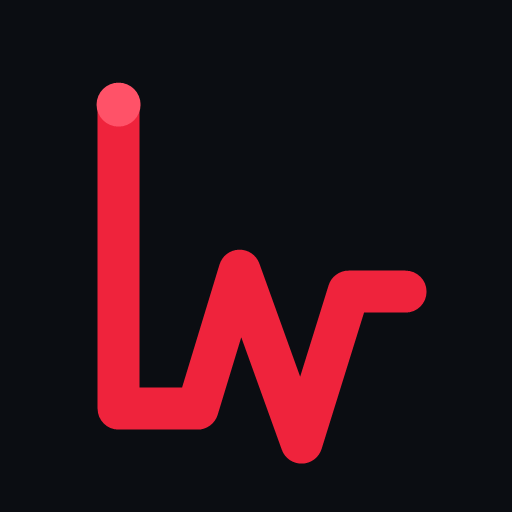
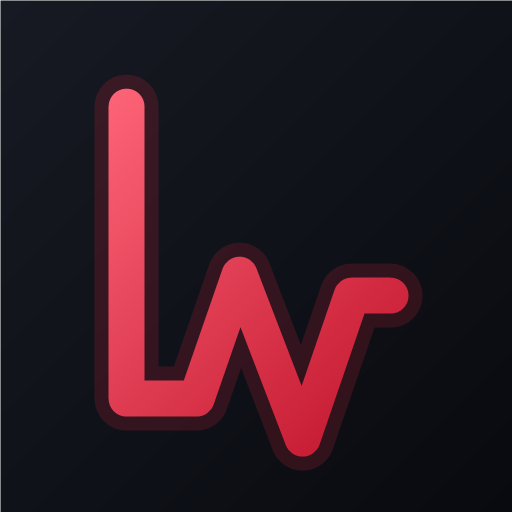
Add files via upload

Changed region(s): [[0.1562, 0.125, 0.8438, 0.9375], [0.0, 0.0, 0.0312, 0.0312]]

diff --git a/index.html b/index.html
@@ -20,7 +20,7 @@
   <div class="app-shell">
     <aside class="sidebar">
       <a class="brand" href="#" aria-label="Lere home">
-        <span class="brand-mark" aria-hidden="true"><svg viewBox="0 0 24 24"><path d="M4 5v14h4l2-7 4 9 3-8h3"/></svg></span>
+        <span class="brand-mark" aria-hidden="true"><svg viewBox="0 0 24 24"><path d="M4.5 4.5v15h4l2.3-7 3.5 9 2.7-8h2.5"/></svg></span>
         <span>Lere</span>
       </a>
 

diff --git a/sw.js b/sw.js
@@ -1,4 +1,4 @@
-const CACHE_NAME = 'lere-shell-v5';
+const CACHE_NAME = 'lere-shell-v6';
 const APP_SHELL = ['./', './index.html', './styles.css', './app.js', './manifest.webmanifest', './icon.svg', './icon-192.png', './icon-512.png'];
 
 self.addEventListener('install', (event) => {
